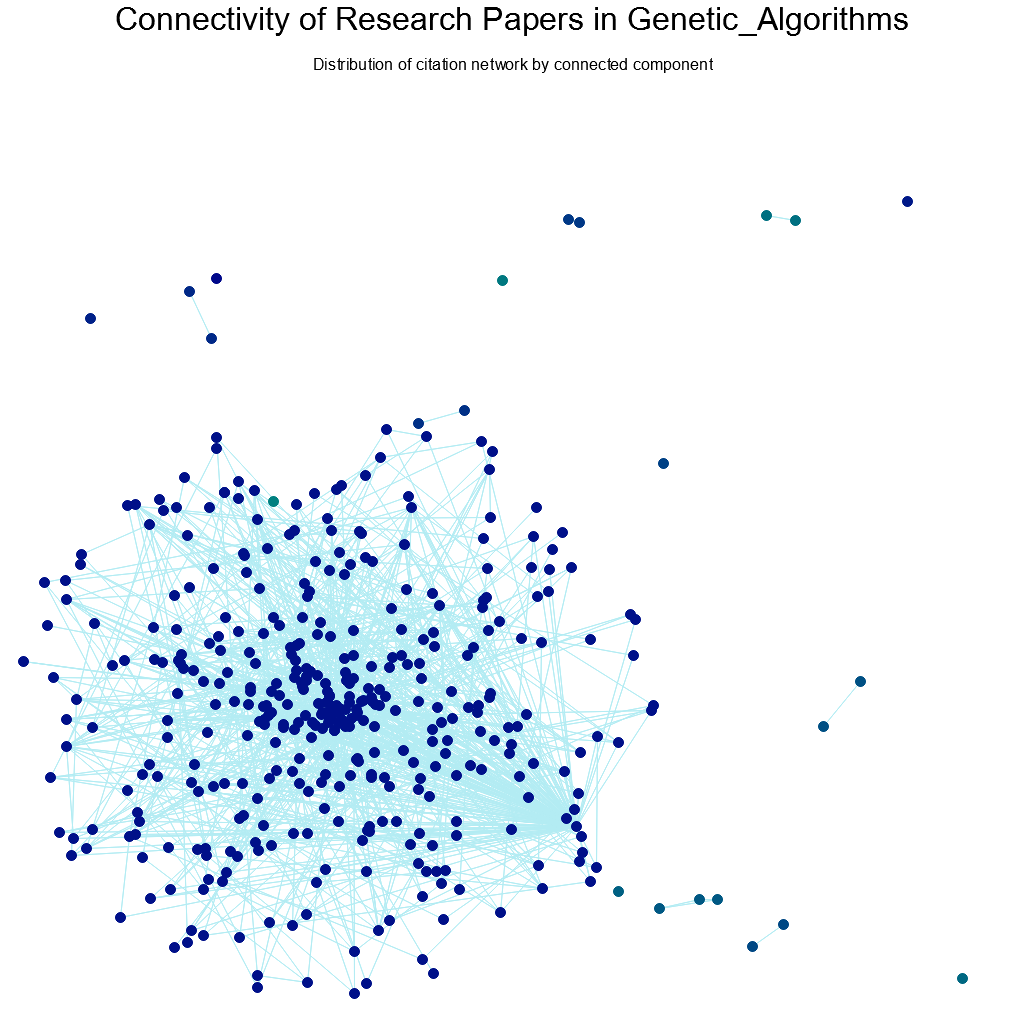
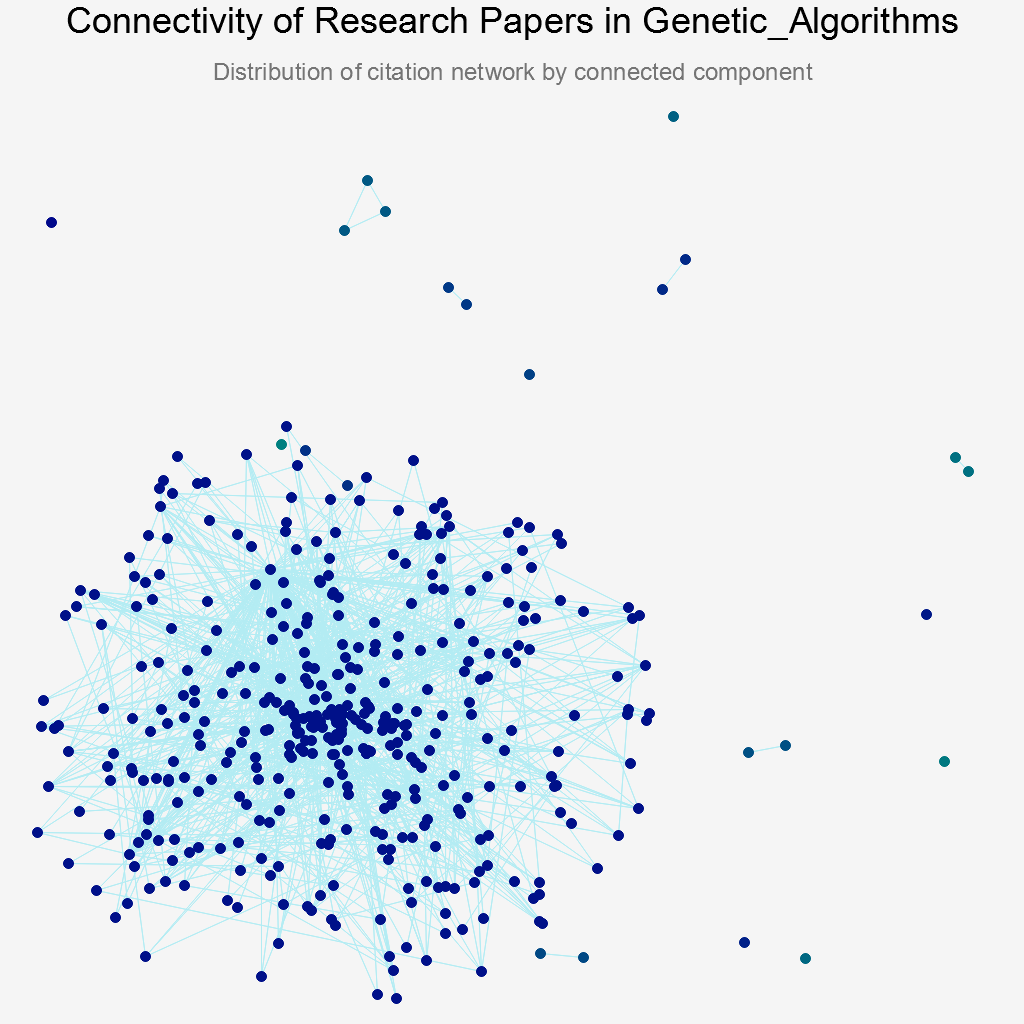
Updated Plot Styles

diff --git a/src/graph/mod.rs b/src/graph/mod.rs
@@ -3,6 +3,7 @@ pub mod visualization_support;
 
 use std::collections::{HashMap,VecDeque};
 use plotters::prelude::*;
+use full_palette::*;
 use rand::Rng;
 type Vertex = usize;
 type Edge = (Vertex, Vertex);
@@ -158,10 +159,10 @@ impl Graph{
         title:&str
     ) -> Result<(), Box<dyn std::error::Error>> {
         let root = BitMapBackend::new(output_file, output_size).into_drawing_area();
-        root.fill(&WHITE)?;
+        root.fill(&GREY_100)?;
     
         // Title for the graph
-        let root_area = root.titled(title, ("sans-serif", 40))?;
+        let root_area = root.titled(title, ("helvetica-bold", 45))?;
     
         // Determine the bounds of the drawing area
         let drawing_area = (-500,500,-500,500);
@@ -169,7 +170,7 @@ impl Graph{
 
         let mut cc = ChartBuilder::on(&root_area)
             .margin(10)
-            .caption("Distribution of citation network by connected component", ("sans-serif", 20))
+            .caption("Distribution of citation network by connected component", TextStyle::from(("helvetica", 30).into_font()).color(&GREY_600))
             .build_cartesian_2d(x_min..x_max, y_min..y_max)?;
     
         cc.configure_mesh().disable_mesh().draw()?;
@@ -206,7 +207,7 @@ impl Graph{
             if let Some(&(x1, y1)) = positions.get(&node) {
                 for &neighbor in neighbors {
                     if let Some(&(x2, y2)) = positions.get(&neighbor) {
-                        cc.draw_series(LineSeries::new(vec![(x1, y1), (x2, y2)], &full_palette::CYAN_100))?;
+                        cc.draw_series(LineSeries::new(vec![(x1, y1), (x2, y2)], &CYAN_100))?;
                     }
                 }
             }

diff --git a/src/main.rs b/src/main.rs
@@ -18,14 +18,13 @@ fn main() {
     graph.visualize_connectivity("plots\\connected_components.png", 3.0, (1024,1024),"All Research Connected Components").unwrap();
 
     let subgraphs = graph.calculate_subgraphs();
-    //For each research subject, calculate statistics about its component and create a visualization
     for (subject, subgraph) in subgraphs.iter(){
         let (component, num_components) = subgraph.connected_components();
         let component_scale = get_component_scale(&component, num_components, true);
-        println!("Papers in {} have {} components. {:.2} of the data is captured in with the following component scale::\n{:?}\n",subject,num_components,component_scale[1],component_scale);
-        // subgraph.visualize_connectivity(
-        //     &format!("plots\\subgraphs\\{}_connectivity.png",subject),
-        //     3.0, (1024,1024), 
-        //     &format!("Connectivity of Research Papers in {}",subject)).unwrap();
+        println!("Papers in {} have {} components. {:.2} of the data is captured in one component.",subject,num_components,component_scale[1]);
+        subgraph.visualize_connectivity(
+            &format!("plots\\subgraphs\\{}_connectivity.png",subject),
+            3.0, (1024,1024), 
+            &format!("Connectivity of Research Papers in {}",subject)).unwrap();
     }
 }

diff --git a/README.md b/README.md
@@ -97,7 +97,7 @@ You can modify the visualization parameters (e.g., plot dimensions, circle sizes
 #### Example Visualizations
 See below visualizations of citation networks by research genre, displaying how a papers genre may impact its connectivity within its field.
 <p align="center">
-  <img src="./plots/subgraphs/Rule_Learning_connectivity.png" width="49%" height="auto" alt="Example Graph for Rule Learning Connectivity">
+  <img src="./plots/subgraphs/Neural_Networks_connectivity.png" width="49%" height="auto" alt="Example Graph for Rule Learning Connectivity">
   <img src="./plots/subgraphs/Genetic_Algorithms_connectivity.png" width="49%" height="auto" alt="Example Graph for Genetic Algorithms Connectivity">
 </p>
 
